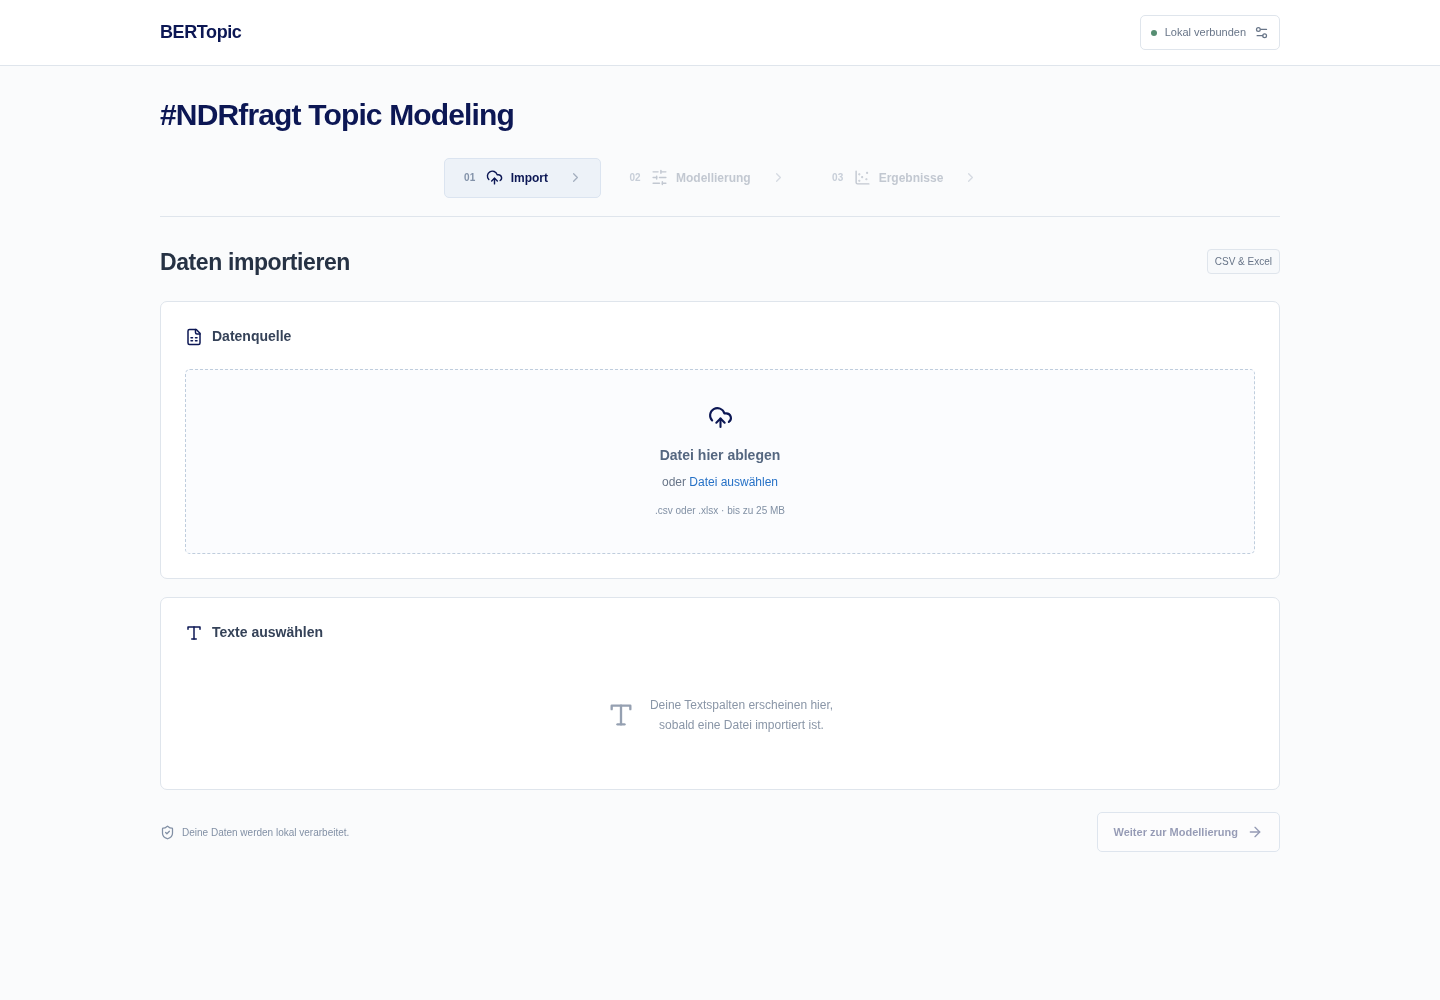
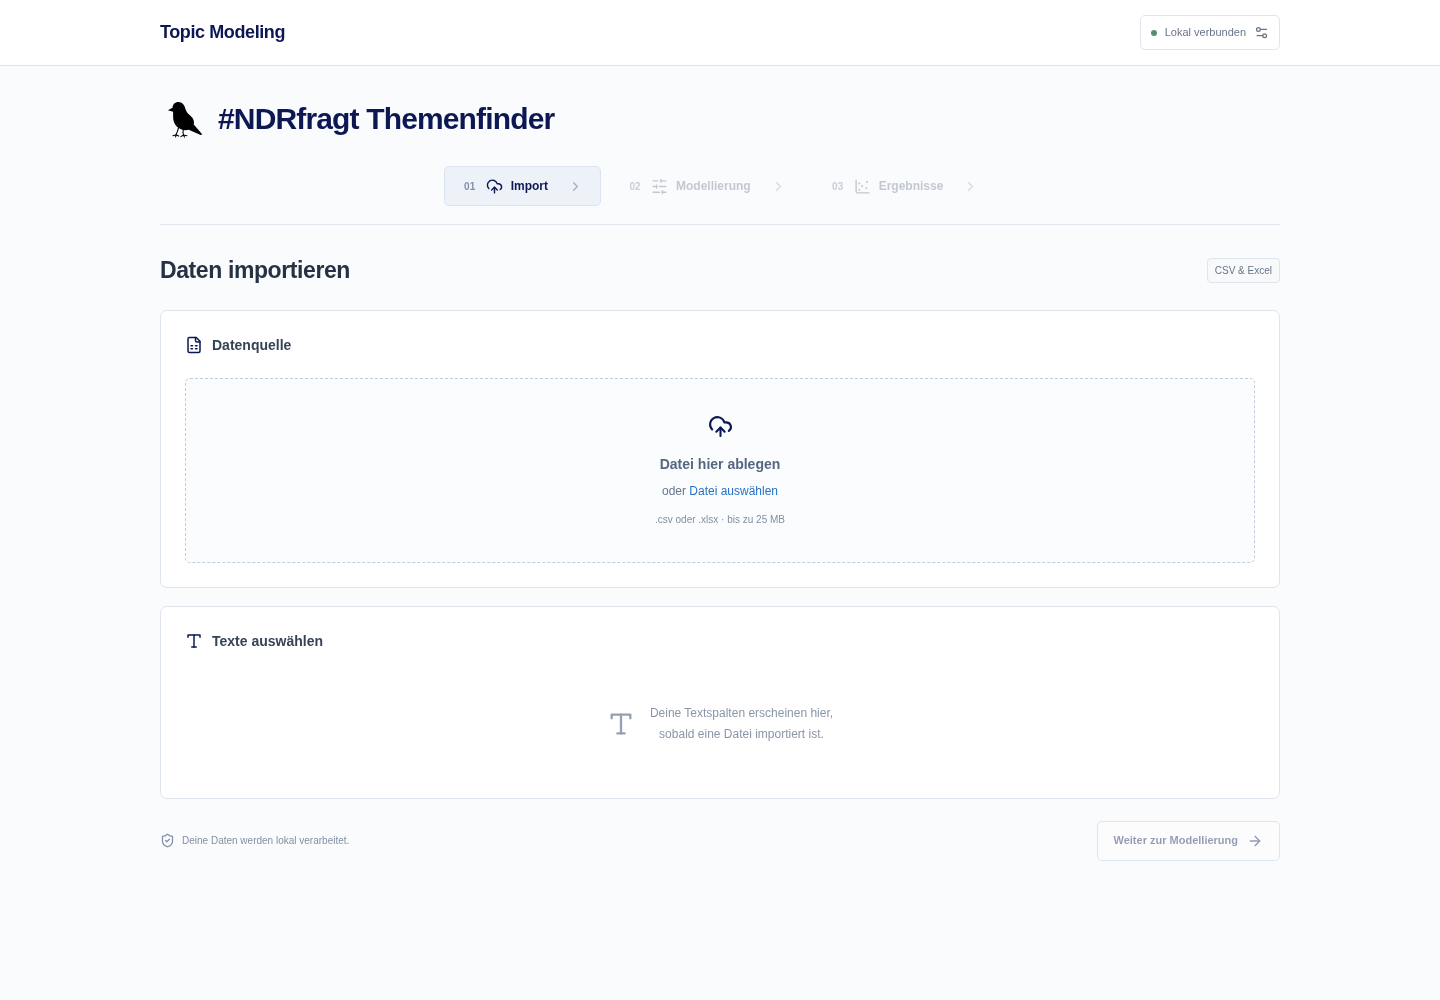
Rename app to NDRfragt Themenfinder and add bird identity

diff --git a/tests/browser/workflow.spec.ts b/tests/browser/workflow.spec.ts
@@ -29,10 +29,19 @@ test("clean desktop and mobile import, connection dialog", async ({
   ).toBeDisabled();
   await expect(
     page.getByRole("heading", {
-      name: "#NDRfragt Topic Modeling",
+      name: "#NDRfragt Themenfinder",
       exact: true,
     }),
   ).toBeVisible();
+  await expect(page).toHaveTitle("#NDRfragt Themenfinder");
+  await expect(page.locator("h1 img")).toHaveAttribute(
+    "src",
+    "/laubenvogel.svg",
+  );
+  await expect(page.locator('link[rel="icon"]')).toHaveAttribute(
+    "href",
+    "/laubenvogel.svg",
+  );
   await expect(
     page.getByText("BERTopic workspace", { exact: true }),
   ).toHaveCount(0);
@@ -41,7 +50,7 @@ test("clean desktop and mobile import, connection dialog", async ({
   expect(Math.abs(upload!.width - selection!.width)).toBeLessThan(1);
   expect(selection!.y).toBeGreaterThan(upload!.y + upload!.height);
   await expect(
-    page.getByRole("link", { name: "BERTopic", exact: true }),
+    page.getByRole("link", { name: "Topic Modeling", exact: true }),
   ).toBeVisible();
   await expect(page.locator("footer")).toHaveCount(0);
   const nav = await page
@@ -341,7 +350,7 @@ test("real API: import, clean, train, all charts, search, download, restore", as
   const downloadPromise = page.waitForEvent("download");
   await page.getByRole("button", { name: "Ergebnisse exportieren" }).click();
   expect((await downloadPromise).suggestedFilename()).toBe(
-    "bertopic-results.zip",
+    "topic-modeling-results.zip",
   );
   await page.reload();
   await expect(page.getByRole("heading", { name: "Ergebnisse" })).toBeVisible();

diff --git a/src/App.tsx b/src/App.tsx
@@ -49,7 +49,7 @@ export default function App() {
             setStep(0);
           }}
         >
-          BERTopic
+          Topic Modeling
         </a>
         <button className="connection" onClick={() => setSettings(true)}>
           <span className={token ? "status-dot" : "status-dot offline"} />
@@ -60,7 +60,15 @@ export default function App() {
       <main>
         <div className="workspace-heading">
           <div>
-            <h1>#NDRfragt Topic Modeling</h1>
+            <h1 className="app-title">
+              <img
+                className="app-mascot"
+                src="/laubenvogel.svg"
+                alt=""
+                aria-hidden="true"
+              />
+              <span>#NDRfragt Themenfinder</span>
+            </h1>
           </div>
         </div>
         <nav className="step-nav" aria-label="Analyseschritte">

diff --git a/index.html b/index.html
@@ -1,1 +1,14 @@
-<!doctype html><html lang="de"><head><link rel="icon" type="image/svg+xml" href="/favicon.svg"/><meta charset="UTF-8"/><meta name="viewport" content="width=device-width, initial-scale=1.0"/><meta name="theme-color" content="#fafbfc"/><title>BERTopic · #NDRfragt Topic Modeling</title></head><body><div id="root"></div><script type="module" src="/src/main.tsx"></script></body></html>
+<!doctype html>
+<html lang="de">
+  <head>
+    <link rel="icon" type="image/svg+xml" href="/laubenvogel.svg" />
+    <meta charset="UTF-8" />
+    <meta name="viewport" content="width=device-width, initial-scale=1.0" />
+    <meta name="theme-color" content="#fafbfc" />
+    <title>#NDRfragt Themenfinder</title>
+  </head>
+  <body>
+    <div id="root"></div>
+    <script type="module" src="/src/main.tsx"></script>
+  </body>
+</html>

diff --git a/src/App.css b/src/App.css
@@ -1680,3 +1680,24 @@ progress::-webkit-progress-value {
     font-size: 11px;
   }
 }
+
+.app-title {
+  display: flex;
+  align-items: center;
+  gap: 12px;
+}
+.app-mascot {
+  width: 46px;
+  height: 46px;
+  flex-shrink: 0;
+  object-fit: contain;
+}
+@media (max-width: 540px) {
+  .app-title {
+    gap: 8px;
+  }
+  .app-mascot {
+    width: 34px;
+    height: 34px;
+  }
+}

diff --git a/src/context/WorkbenchContext.tsx b/src/context/WorkbenchContext.tsx
@@ -338,7 +338,7 @@ function useWorkbenchState() {
       const url = URL.createObjectURL(await response.blob());
       const link = document.createElement("a");
       link.href = url;
-      link.download = "bertopic-results.zip";
+      link.download = "topic-modeling-results.zip";
       link.click();
       setTimeout(() => URL.revokeObjectURL(url), 1000);
     });

diff --git a/server/__main__.py b/server/__main__.py
@@ -8,7 +8,7 @@ from server.migrate import migrate_legacy_secrets
 
 
 def main():
-    parser = argparse.ArgumentParser(description="BERTopic – local topic modeling")
+    parser = argparse.ArgumentParser(description="Topic Modeling – lokale Themenanalyse")
     parser.add_argument("--port", type=int, default=8000)
     args = parser.parse_args()
     if not 1 <= args.port <= 65535:

diff --git a/server/app.py b/server/app.py
@@ -5,7 +5,7 @@ from fastapi.staticfiles import StaticFiles
 from server.routes import router
 from server.settings import ROOT
 
-app = FastAPI(title="BERTopic", version="0.3.0")
+app = FastAPI(title="Topic Modeling", version="0.3.0")
 app.include_router(router)
 if (ROOT / "dist").is_dir():
     app.mount("/", StaticFiles(directory=ROOT / "dist", html=True), name="frontend")

diff --git a/server/routes/results.py b/server/routes/results.py
@@ -334,5 +334,5 @@ def export(x_workspace_id: Annotated[str, Header()]):
     return Response(
         content,
         media_type="application/zip",
-        headers={"Content-Disposition": 'attachment; filename="bertopic-results.zip"'},
+        headers={"Content-Disposition": 'attachment; filename="topic-modeling-results.zip"'},
     )

diff --git a/README.md b/README.md
@@ -1,4 +1,4 @@
-# BERTopic · #NDRfragt Topic Modeling
+# Topic Modeling · #NDRfragt Themenfinder
 
 Lokale Themenanalyse mit **React/TypeScript**, **FastAPI** und **BERTopic**. Texte importieren, Modelle konfigurieren und Ergebnisse untersuchen – ohne Sidebar. Die aktuelle Anwendung liegt im Branch `feature/react-workbench`.
 
@@ -149,3 +149,5 @@ Unter **Ergebnisse verbessern** gibt es zusätzlich:
 - **Themennamen bearbeiten:** Thema auswählen, Namen mit bis zu 120 Zeichen eingeben und speichern. Dafür ist kein API-Key erforderlich. Der Name gilt in Tabellen, Filtern, Diagrammen und Exporten. Manuelle Namen haben Vorrang vor KI-Namen und bleiben bei erneuter KI-Benennung erhalten. Automatische Themenreduzierung und Outlier-Änderungen verwerfen hingegen Namen, da Inhalte und Zuordnungen sich ändern.
 
 **Outlier (−1)** heißen immer „Outlier“. Sie sind von manueller und KI-Benennung sowie gezielter Zusammenführung ausgeschlossen. Hilfe-Buttons an der Outlier-Kennzahl und der Outlier-Bearbeitung erklären die Bedeutung. Manuelle Namen und Zusammenführungen werden im Export dokumentiert; wie die übrigen Ergebnisse liegen sie bis zum Serverneustart im Arbeitsspeicher.
+
+Das Laubenvogel-SVG in `public/laubenvogel.svg` wird als Browser-Icon und vor dem App-Titel verwendet.

diff --git a/docs/react-workbench.md b/docs/react-workbench.md
@@ -1,4 +1,4 @@
-# React-Workbench · #NDRfragt Topic Modeling
+# React-Workbench · #NDRfragt Themenfinder
 
 Die Anwendung besteht ausschließlich aus React/TypeScript und einem Python-/FastAPI-Backend. Die fachlichen BERTopic-Module wurden beibehalten; eine Streamlit-Oberfläche wird nicht mehr mitgeführt.
 
@@ -7,7 +7,7 @@ Die Anwendung besteht ausschließlich aus React/TypeScript und einem Python-/Fas
 ## Design
 
 - `#0C1754` als Hauptakzent, `#2671C6` für Hover/Fokus, `#FAFBFC` als heller Hintergrund.
-- BERTopic im Header, „#NDRfragt Topic Modeling“ als Titel.
+- Topic Modeling im Header, „#NDRfragt Themenfinder“ als Titel.
 - Zentrierte Navigation Import · Modellierung · Ergebnisse, ohne Sidebar oder Footertext.
 - Importfelder mit gleichen Höhen und Abständen: ID zuerst, dann durchsuchbares Textspalten-Multiselect ohne Vorauswahl.
 - Gefilterte Originalvorschau vor der Bereinigung; danach direkt die bereinigten Texte und tatsächlichen IDs.
